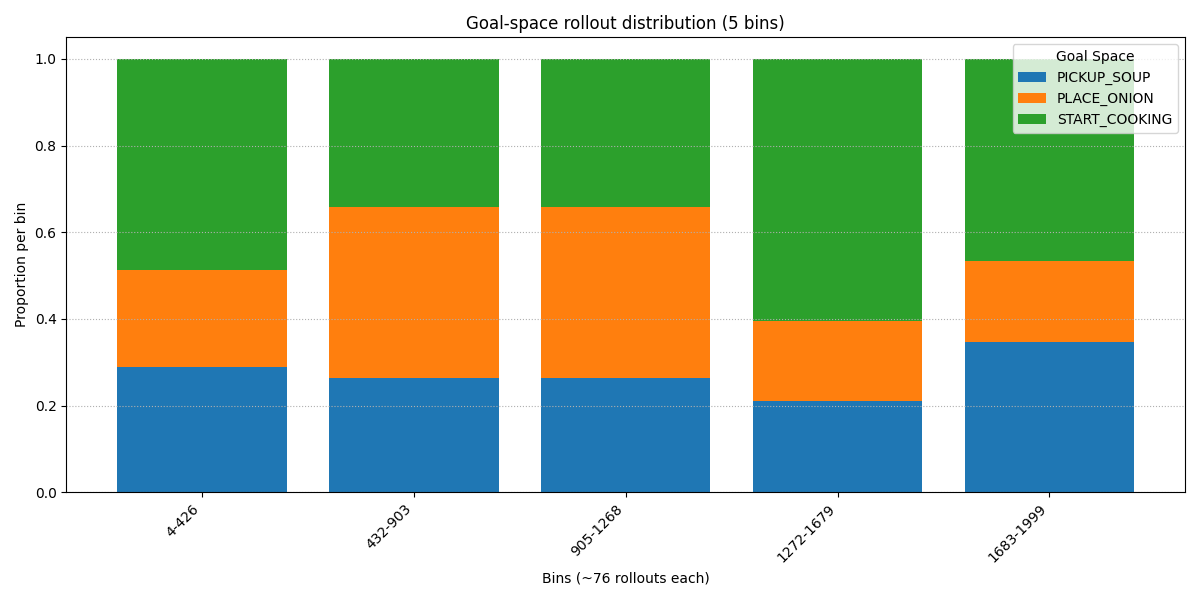
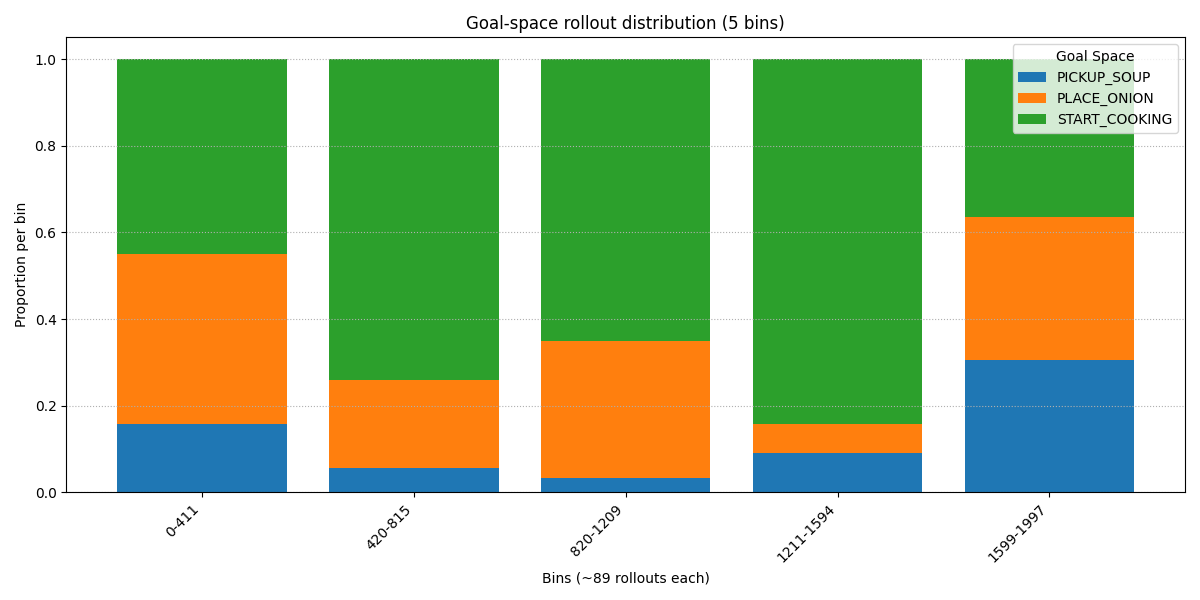
Refactor neuro policy selection and adjust hyperparameters; clean up visualisation logic

diff --git a/IMGEP_agent/agent/goals/goal_spaces.py b/IMGEP_agent/agent/goals/goal_spaces.py
@@ -89,8 +89,7 @@ def start_cooking_space() -> Goal:
         adj = mdp.get_adjacent_features(prev_agent)
         adj_positions = {pos for pos, _ in adj}
         if place_onion.success(agent_id, state, previous_state, mdp):
-            place_onion_fitness = place_onion.fitness(pick_step, state, previous_state, agent_id, mdp)
-            return place_onion_fitness / 4
+            return 0.1
         for p in new:
             if p in adj_positions:
                 current_pot_state = state.get_object(p)
@@ -115,18 +114,14 @@ def start_cooking_space() -> Goal:
 
 def pickup_soup_space() -> Goal:
     start_cooking = start_cooking_space()
+    pickup_dish = pick_object_space(GoalSpaceEnum.PICKUP_SOUP, ItemCode.DISH.value)
     def fitness(pick_step: int, state: OvercookedState, previous_state: OvercookedState,
                 agent_id: int, mdp: OvercookedGridworld):
         player: PlayerState = state.players[agent_id]
-        previous_player: PlayerState = previous_state.players[agent_id]
         held = player.get_object() if player.has_object() else None
 
         if held and held.name == 'soup':
             return held.value / 65
-
-        if start_cooking.success(agent_id, state, previous_state, mdp):
-            start_cooking_fitness = start_cooking.fitness(pick_step, state, previous_state, agent_id, mdp)
-            return start_cooking_fitness / 2
         return 0.0
 
     def success(agent_id: int, state: OvercookedState, previous_state: OvercookedState,

diff --git a/IMGEP_agent/hyper_parameters.py b/IMGEP_agent/hyper_parameters.py
@@ -10,7 +10,7 @@ EXPLOIT_PROB = 0.2  # probability of exploiting the current policy
 ### NEURAL NETWORK PARAMETERS
 NEURO_POLICY_HIDDEN_DIM = 64  # hidden layer size for the neural network policy
 ADAPTIVE_NOISE_STD = 0.1  # standard deviation for the adaptive noise added to the policy outputs
-PARENT_POLICY_RECENT_RECORDS = 20  # number of recent records to consider when selecting a parent policy
+PARENT_POLICY_RECENT_RECORDS = 50  # number of recent records to consider when selecting a parent policy
 
 ### GOAL SELECTION PARAMETERS
 GOAL_EMA_K = 20  # How many past exploit records to include in the EMA

diff --git a/IMGEP_agent/agent/neuro_policy/neuro_policy.py b/IMGEP_agent/agent/neuro_policy/neuro_policy.py
@@ -36,7 +36,7 @@ class NeuroPolicy:
     # ──────────────────────────── public ──────────────────────────────
     def select_token(self,
                      obs_vec: np.ndarray,
-                     greedy: bool = True) -> int:
+                     greedy: bool) -> int:
 
         x = np.concatenate([obs_vec]).astype(np.float32)
 

diff --git a/IMGEP_agent/agent/agent.py b/IMGEP_agent/agent/agent.py
@@ -104,7 +104,6 @@ class IMGEPAgent(Agent):
             token = HighLevelActions(neuro_policy_token)
             motion_goals = get_motion_goals(self.mlam, self.mdp, token, state)
             self.path = get_plan(state.players[self.agent_id].pos_and_or, motion_goals, self.mlam)
-            print(self.path)
         else:
             self.goal_space_neuro_policies.append(
                 GoalSpaceNeuroPolicy(
